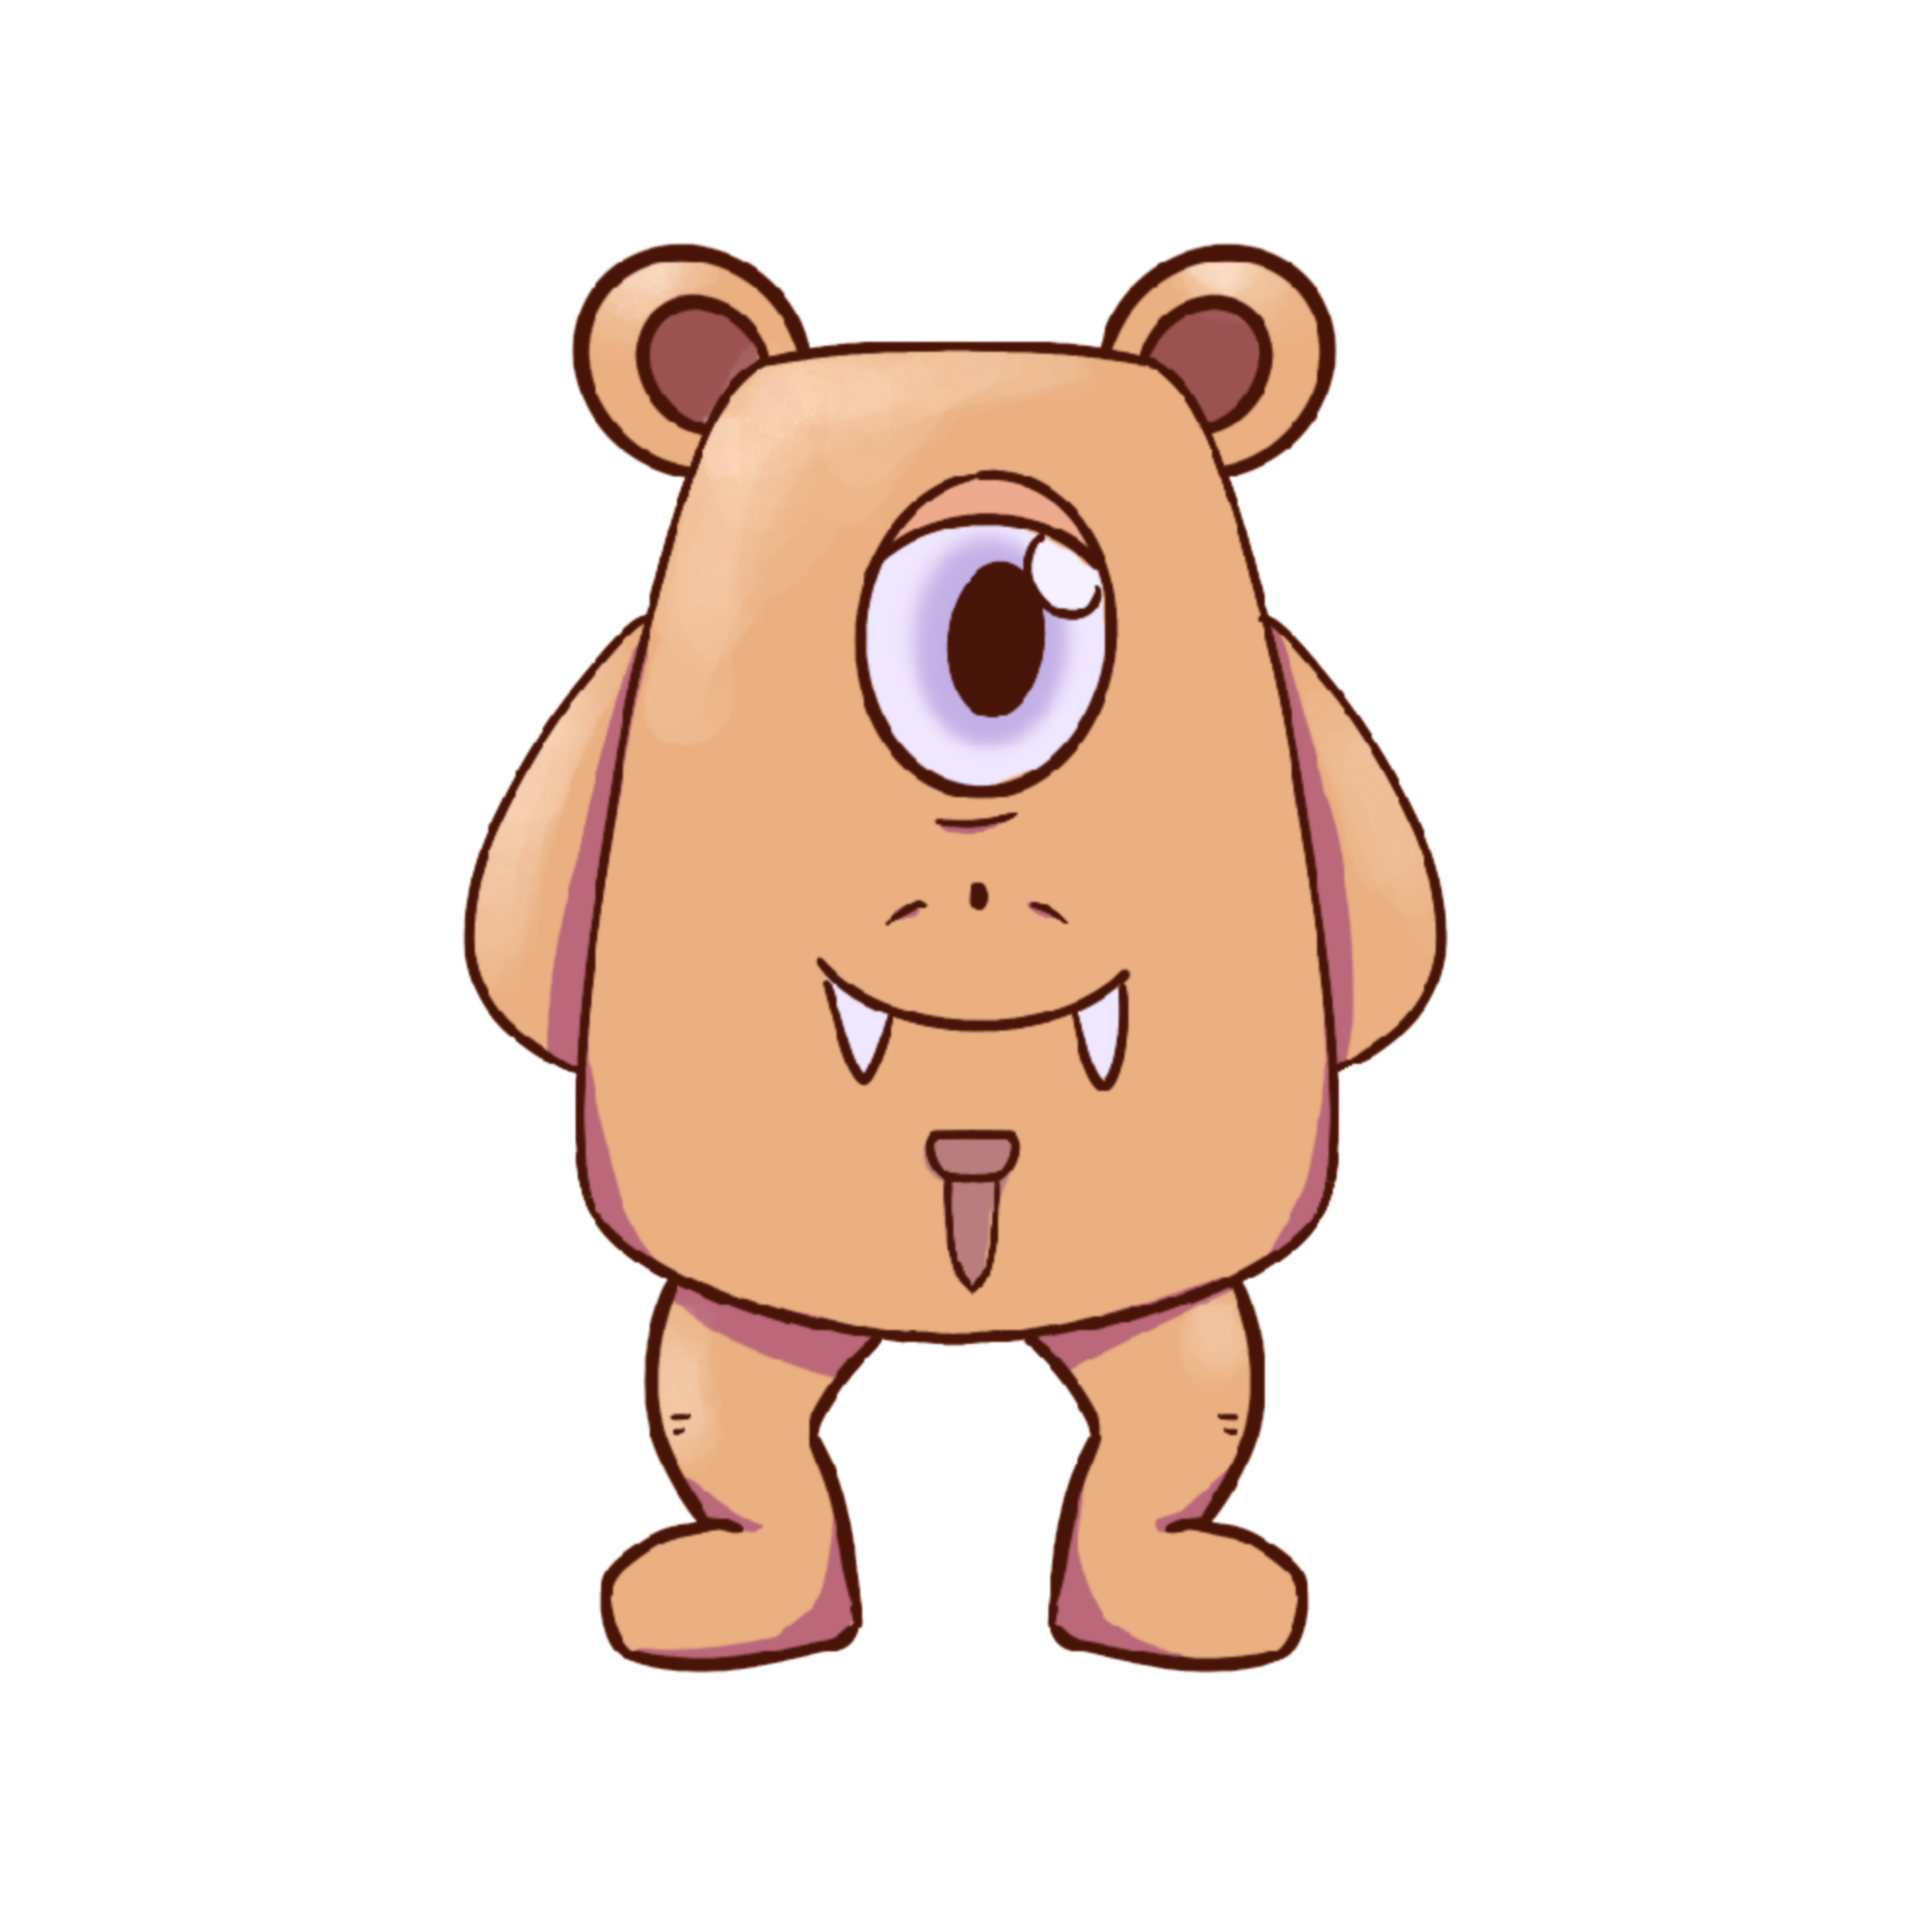
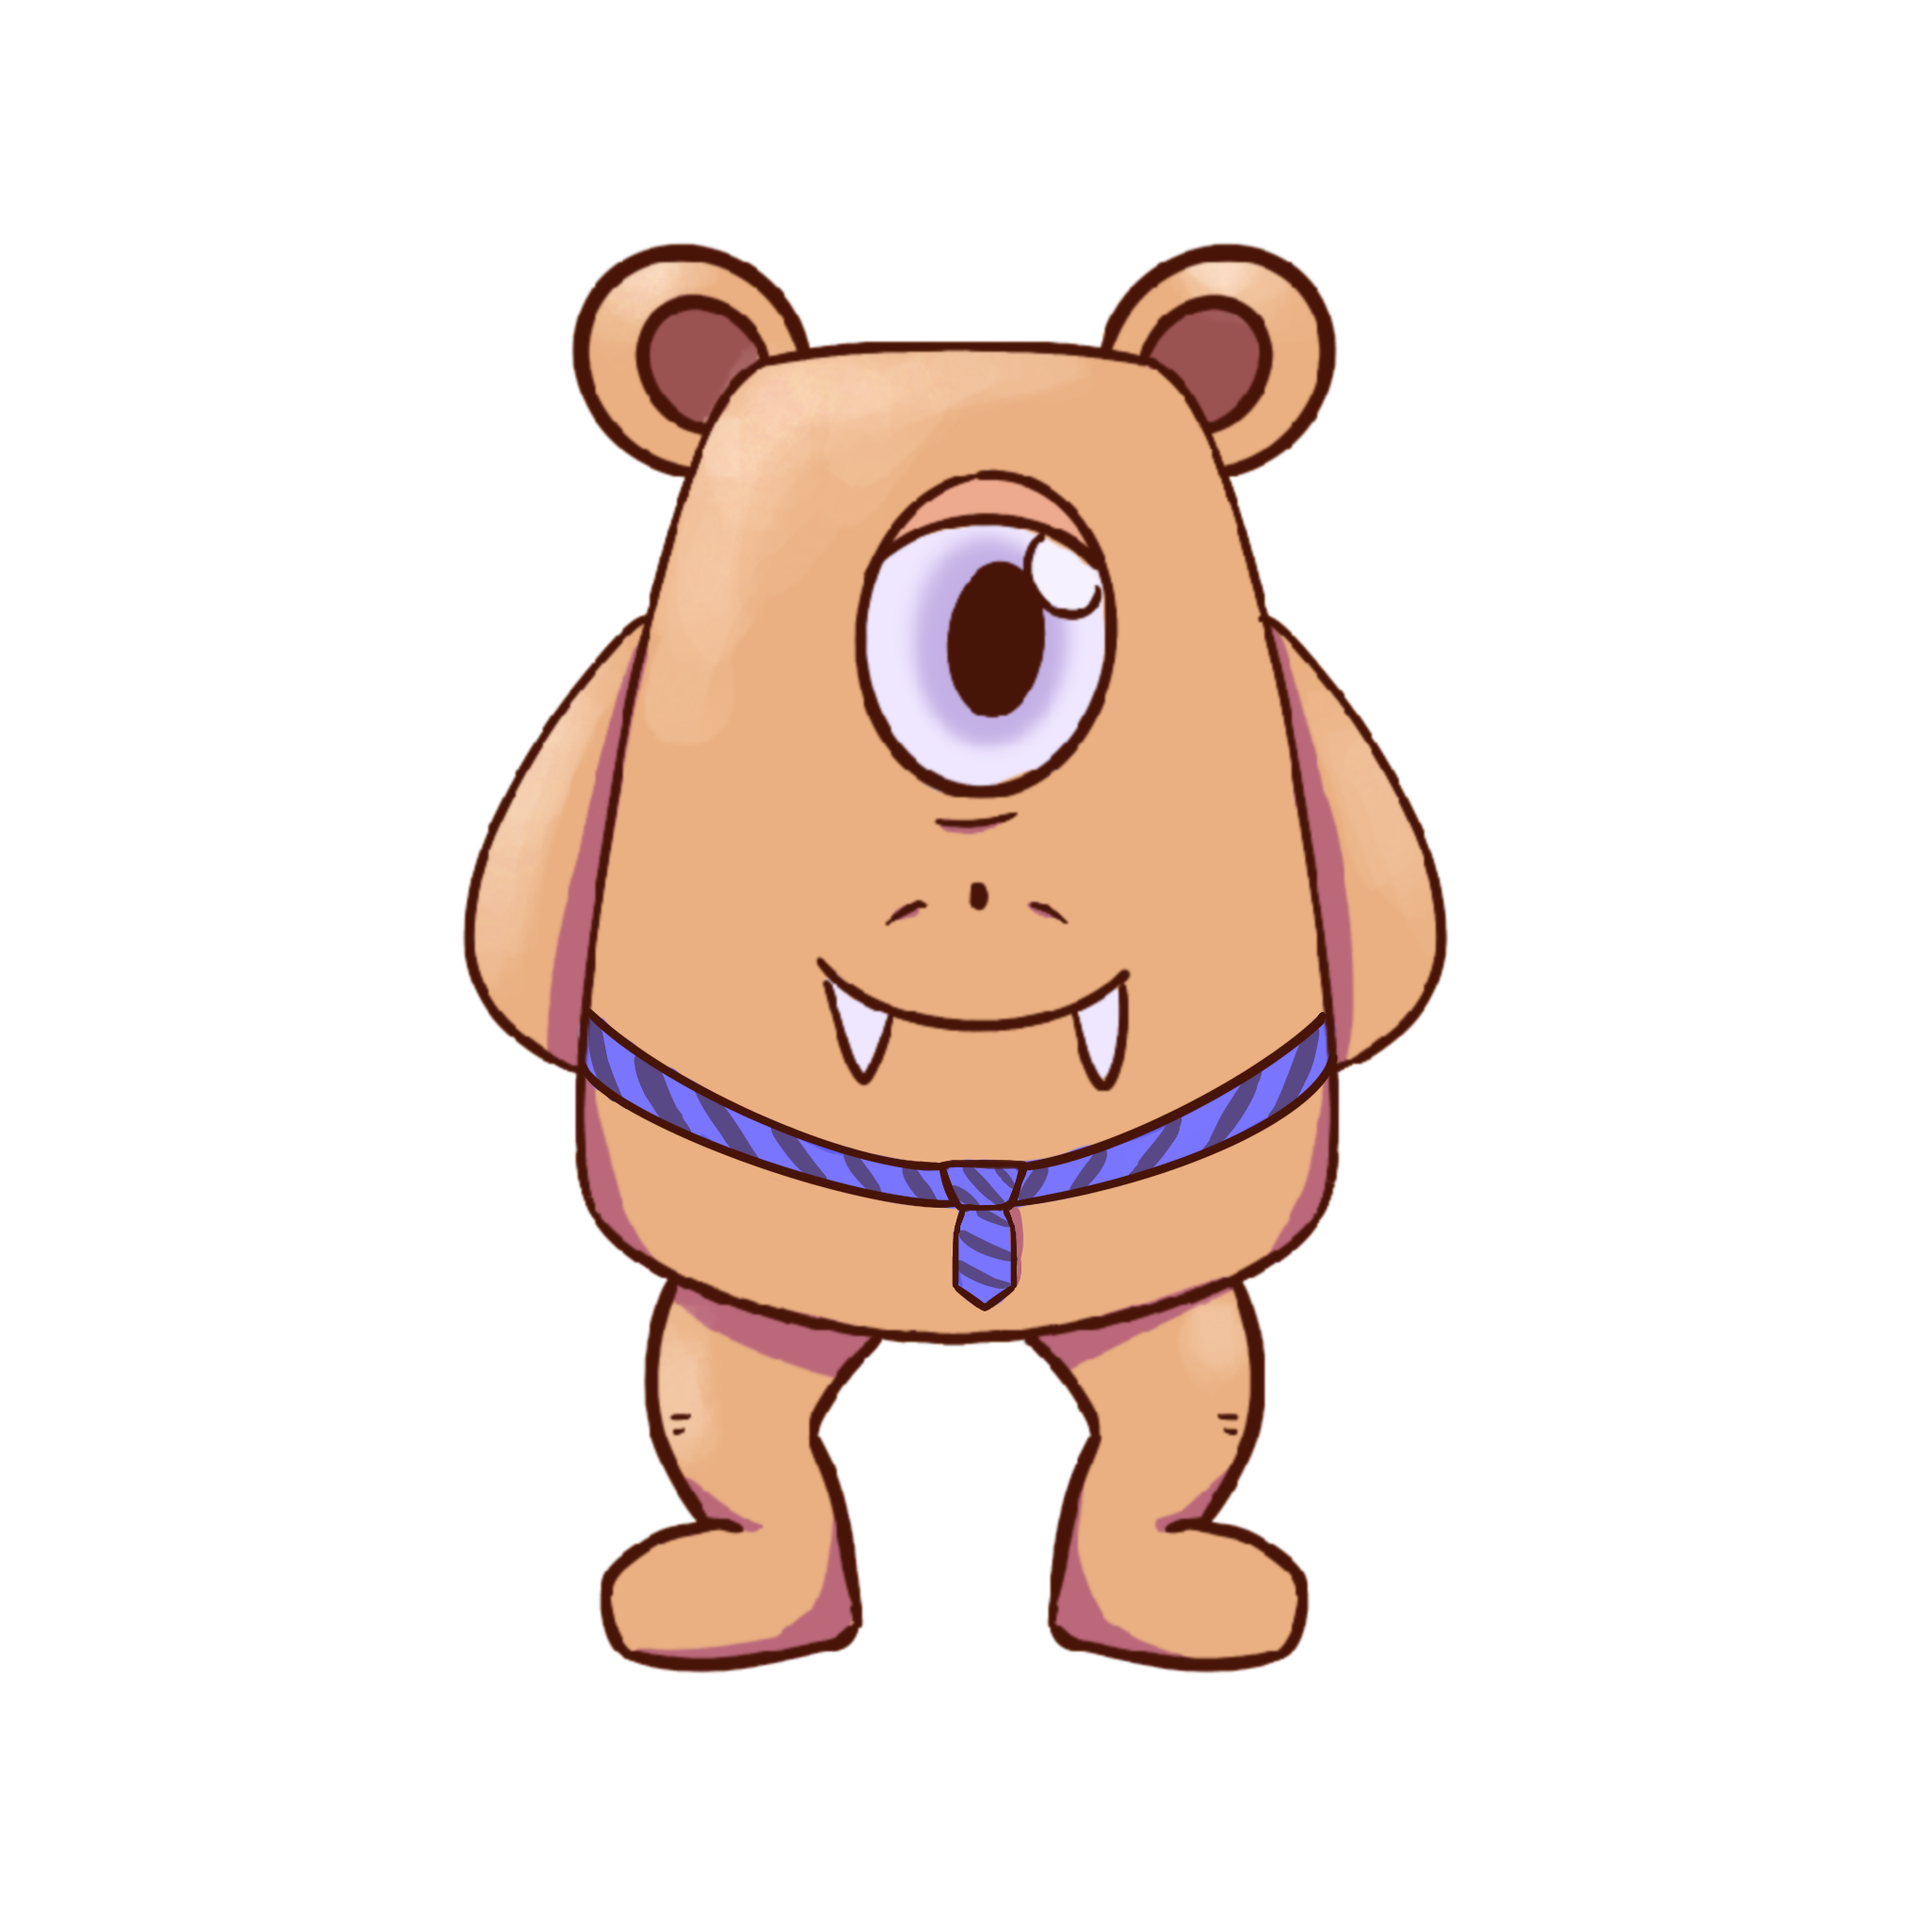
Add level 3 hangry images

Changed region(s): [[0.2812, 0.5312, 0.6875, 0.6875]]

diff --git a/src/main/java/seedu/address/logic/PetManager.java b/src/main/java/seedu/address/logic/PetManager.java
@@ -79,7 +79,11 @@ public class PetManager {
                             : "/images/pet/level2hangry.png");
             petImage = str;
         } else {
-            petImage = "/images/pet/level3.png";
+            String str =
+                    (mood.equals(HAPPY_MOOD_STRING)
+                            ? "/images/pet/level3.png"
+                            : "/images/pet/level3hangry.png");
+            petImage = str;
         }
 
         int expBarPerc = expBarInt / 10;
